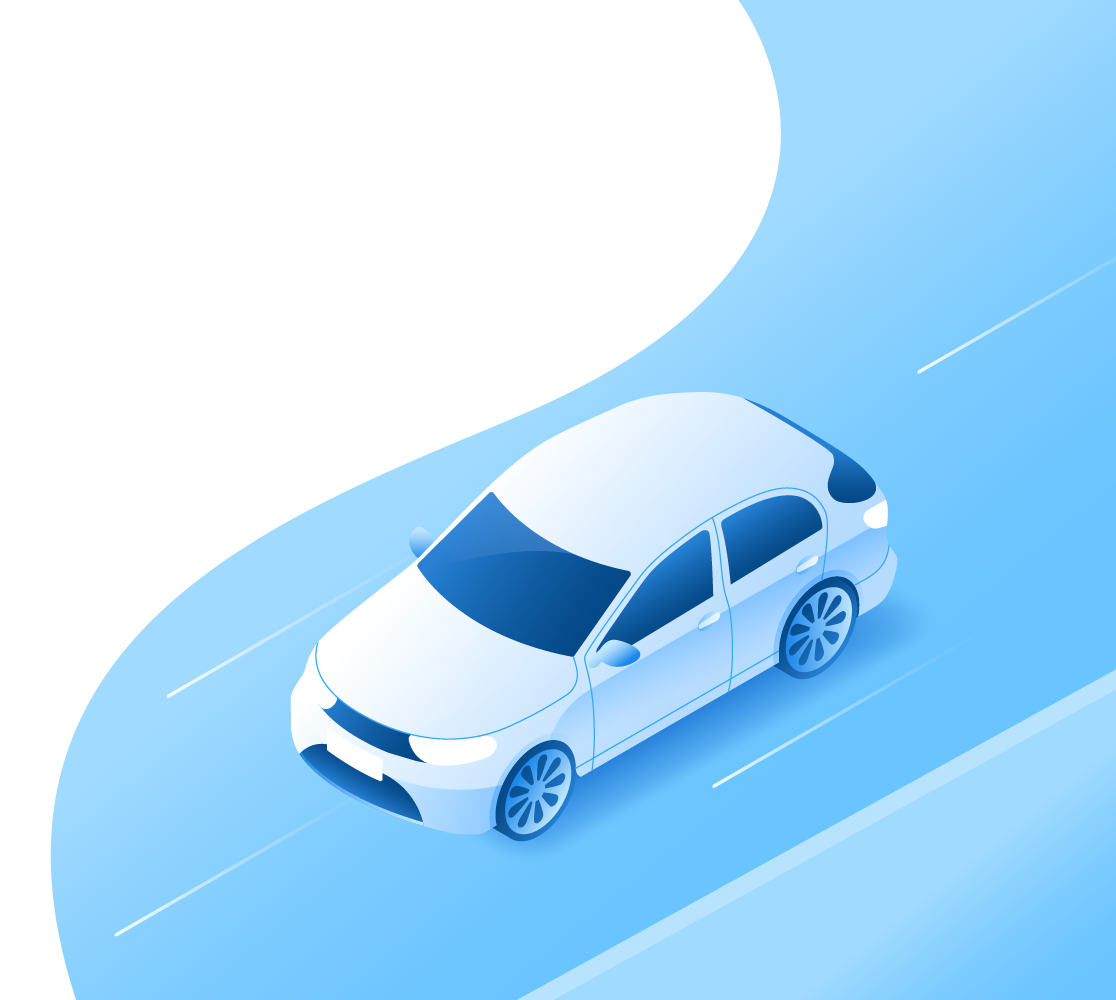
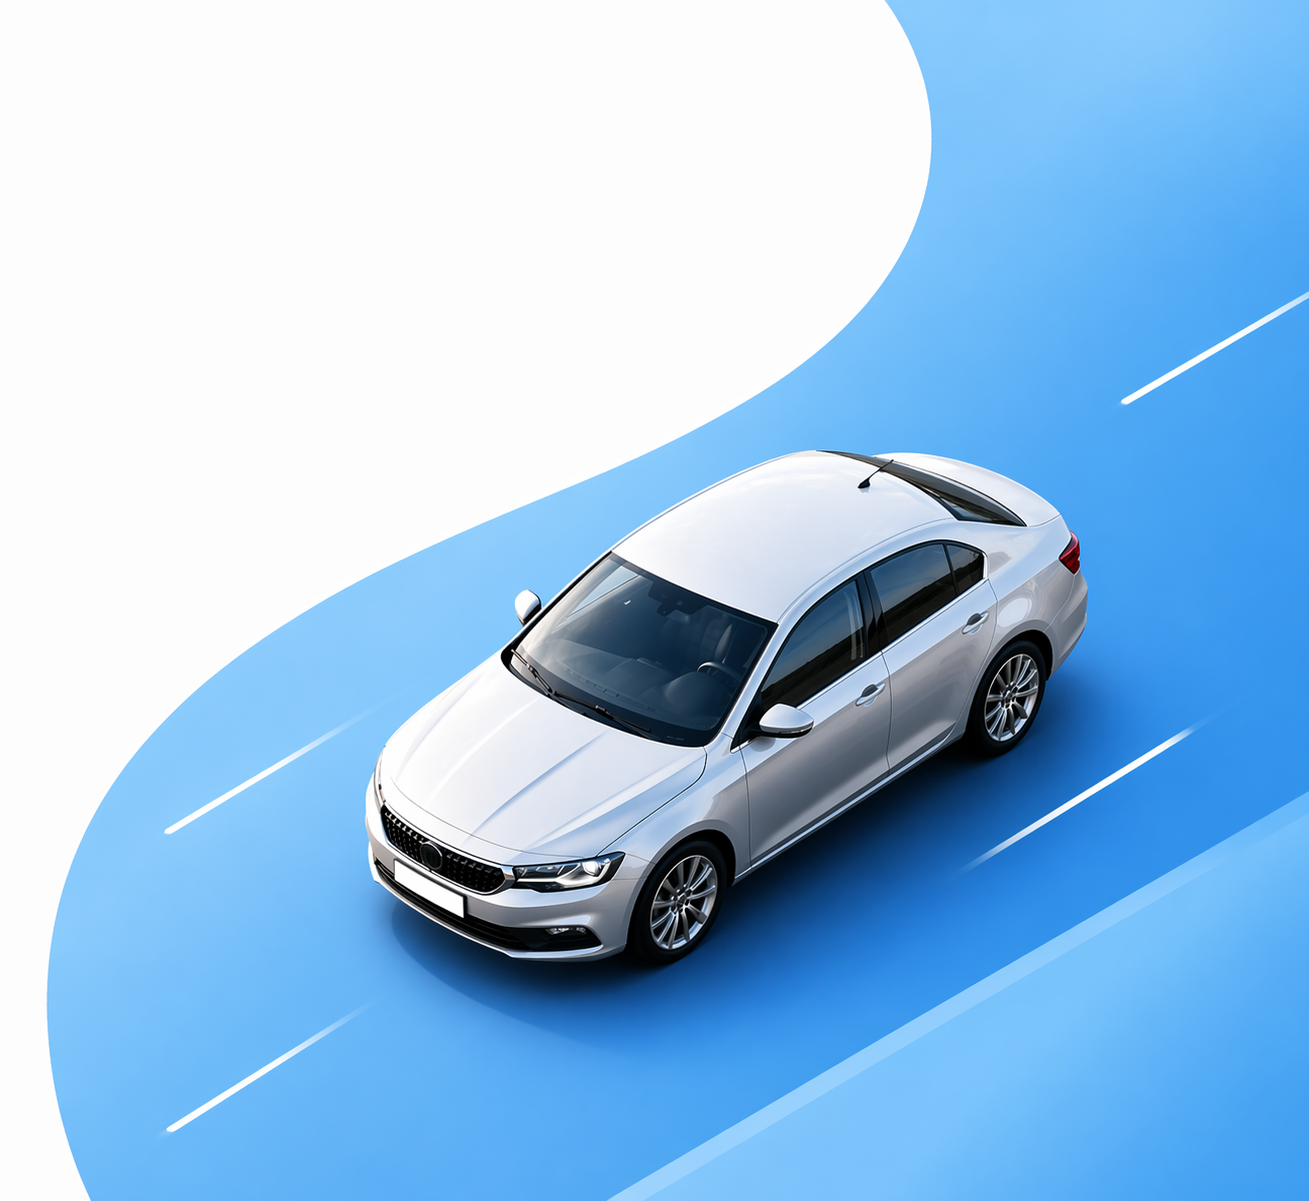
Add new car images and update styles for improved hero section layout

diff --git a/styles.css b/styles.css
@@ -36,9 +36,13 @@ body {
   display: flex;
   flex-direction: column;
   background-image: url("./car.png");
-  background-size: stretch;
-  background-position: 30% 80%;
+  background-size: cover;
+  background-position: 100% 70%;
   background-repeat: no-repeat;
+
+  @media screen and (max-width: 700px) {
+    background-position: 20% 80%;
+  }
 }
 
 .topbar {
@@ -48,19 +52,20 @@ body {
 
 .logo {
   display: block;
-  height: 100px;
-  width: auto;
+  width: 200px;
   margin: 1rem 0
 }
 
 .hero-content {
-  min-height: 220px;
+  min-height: 600px;
   margin-top: auto;
   padding: .5rem 1.25rem;
   color: var(--text);
   display: flex;
-  align-items: flex-end;
-  background-image: linear-gradient(to top, var(--surface), transparent);
+  flex-direction: column;
+  justify-content: flex-start;
+  align-items: flex-start;
+  /* background-image: linear-gradient(to top, var(--surface), transparent); */
 }
 
 h1,
@@ -90,7 +95,7 @@ section {
 }
 
 .subtitle {
-  font-size: clamp(1.25rem, 2.7vw, 2rem);
+  font-size: clamp(1.3rem, 2.7vw, 1.5rem);
   margin: 0;
 }
 

diff --git a/index.html b/index.html
@@ -10,14 +10,14 @@
     <div class="page-wrapper">
       <header class="hero">        
         <div class="hero-content">
+          <img class="logo" src="./logo.png" alt="Promoto" />
           <h1>Rejestracja pojazdu z zagranicy</h1>
+          <p class="subtitle">Małgorzata Sagan</p>
+          <p class="phone">605 399 311</p>
         </div>
       </header>
 
       <section>
-        <img class="logo" src="./logo.png" alt="Promoto" />
-        <p class="subtitle">Małgorzata Sagan</p>
-        <p class="phone">605 399 311</p>
 
       </section>
       
